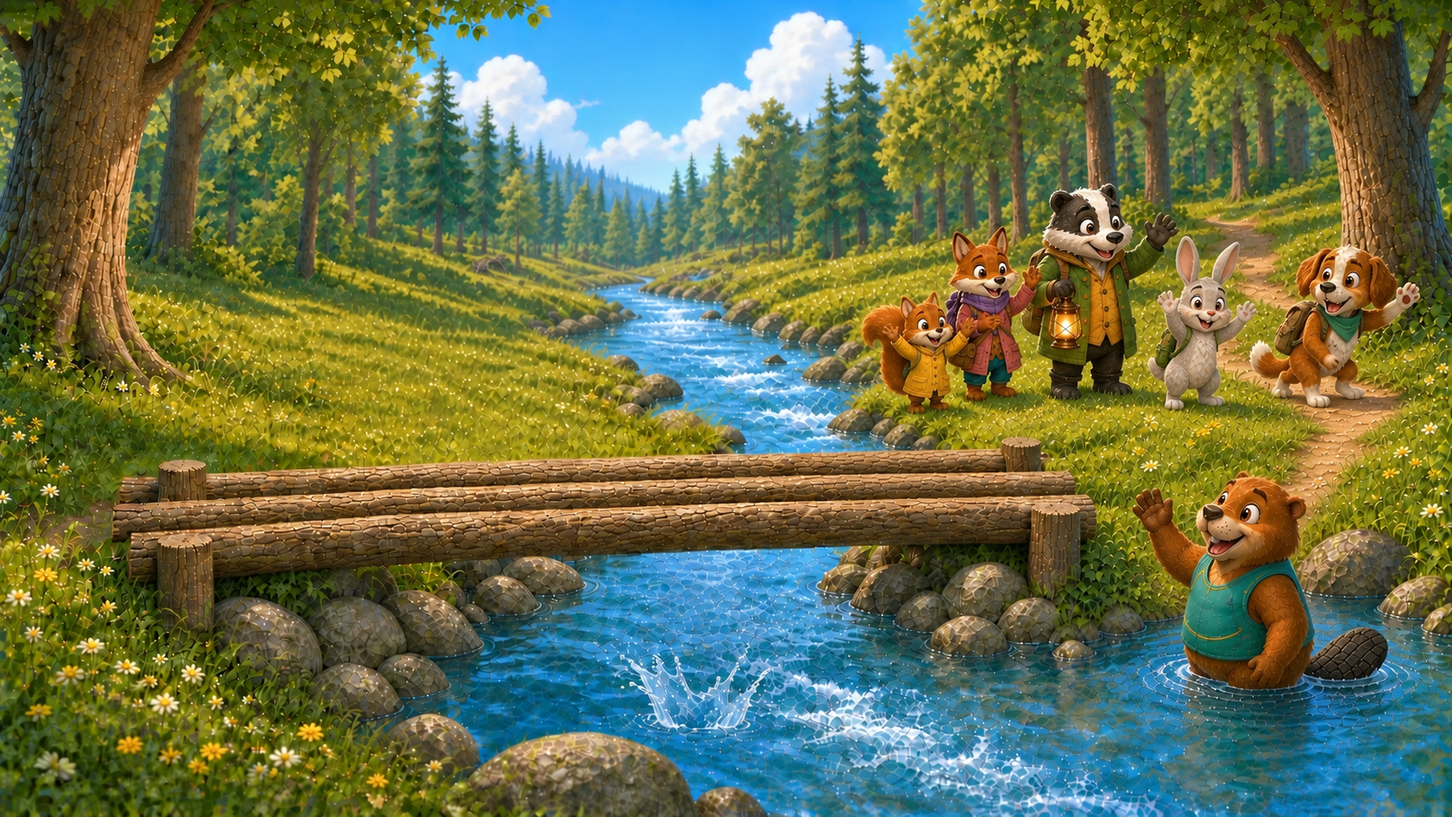
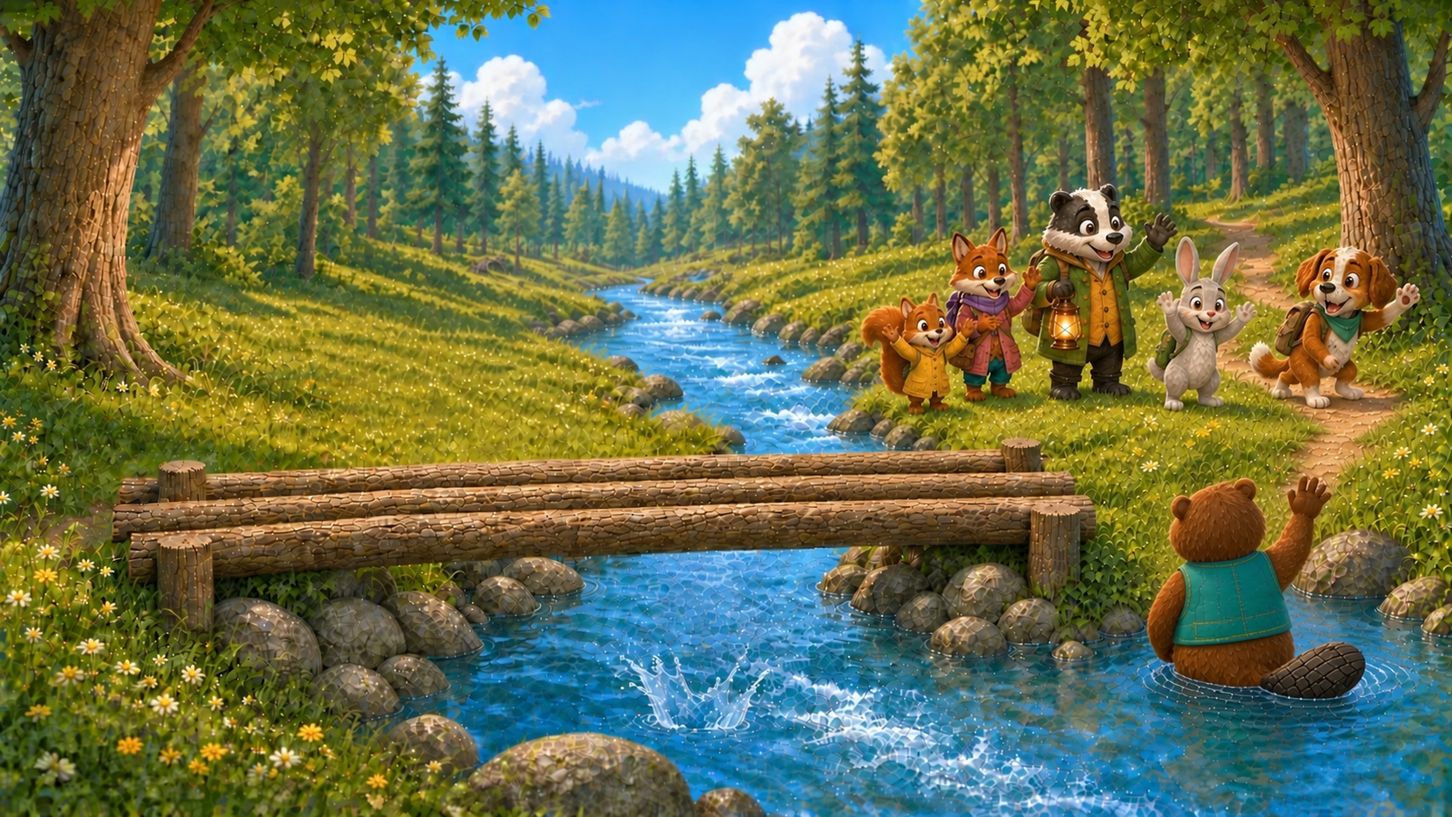
Fix Scene 5 three-log bridge and Logan farewell direction

diff --git a/MatysekANJ/web_mmtx/scene05_log_bridge/index.html b/MatysekANJ/web_mmtx/scene05_log_bridge/index.html
@@ -6,16 +6,16 @@
     <meta name="theme-color" content="#27483c">
     <title>Scene 5 — The Log Bridge</title>
     <link rel="preload" href="scene05_log_bridge_supports_smooth_q90.webp" as="image" type="image/webp" fetchpriority="high">
-    <link rel="preload" href="scene05_log_bridge_complete_smooth_q90.webp" as="image" type="image/webp">
+    <link rel="preload" href="scene05_log_bridge_complete_smooth_q90.webp?v=20260912artfix1" as="image" type="image/webp">
     <link rel="preload" href="scene05_benji_across_smooth_q90.webp" as="image" type="image/webp">
     <link rel="preload" href="scene05_benji_sunny_across_smooth_q90.webp" as="image" type="image/webp">
     <link rel="preload" href="scene05_fiona_across_smooth_q90.webp" as="image" type="image/webp">
     <link rel="preload" href="scene05_bruno_bunny_crossing_smooth_q90.webp" as="image" type="image/webp">
     <link rel="preload" href="scene05_lamp_falling_smooth_q90.webp" as="image" type="image/webp">
     <link rel="preload" href="scene05_lamp_rescued_smooth_q90.webp" as="image" type="image/webp">
-    <link rel="preload" href="scene05_friends_farewell_smooth_q90.webp" as="image" type="image/webp">
-    <link rel="stylesheet" href="styles.css?v=20260912farewell1">
-    <link rel="stylesheet" href="interaction.css?v=20260912farewell1">
+    <link rel="preload" href="scene05_friends_farewell_smooth_q90.webp?v=20260912artfix1" as="image" type="image/webp">
+    <link rel="stylesheet" href="styles.css?v=20260912artfix1">
+    <link rel="stylesheet" href="interaction.css?v=20260912artfix1">
   </head>
   <body>
     <main class="app-shell">
@@ -26,7 +26,7 @@
             <img class="scene-image" id="sceneImage" src="scene05_log_bridge_supports_smooth_q90.webp" width="1672" height="941" alt="Pět kamarádů a bobr Logan stojí u potoka, kde zůstaly základy starého mostu" fetchpriority="high" draggable="false">
           </picture>
 
-          <img class="scene-image final-scene" id="finalScene" src="scene05_log_bridge_complete_smooth_q90.webp" width="1672" height="941" alt="Hotový most ze tří bobrem ohlodaných kmenů" draggable="false">
+          <img class="scene-image final-scene" id="finalScene" src="scene05_log_bridge_complete_smooth_q90.webp?v=20260912artfix1" width="1672" height="941" alt="Hotový most ze tří bobrem ohlodaných kmenů" draggable="false">
           <img class="scene-image story-state" id="benjiAcrossScene" src="scene05_benji_across_smooth_q90.webp" width="1672" height="941" alt="Benji bezpečně stojí na pravém břehu za hotovým mostem" draggable="false">
           <img class="scene-image story-state" id="sunnyAcrossScene" src="scene05_benji_sunny_across_smooth_q90.webp" width="1672" height="941" alt="Benji a Sunny jsou na pravém břehu a Bunny se vlevo bojí" draggable="false">
           <img class="scene-image story-state" id="fionaAcrossScene" src="scene05_fiona_across_smooth_q90.webp" width="1672" height="941" alt="Fiona bezpečně stojí s Benjim a Sunny na pravém břehu" draggable="false">
@@ -34,7 +34,7 @@
           <img class="scene-image story-state" id="lampFallingScene" src="scene05_lamp_falling_smooth_q90.webp" width="1672" height="941" alt="Brunovi při přecházení padá svítící lampa do potoka" draggable="false">
           <img class="scene-image story-state" id="lampRescuedScene" src="scene05_lamp_rescued_smooth_q90.webp" width="1672" height="941" alt="Logan podává zachráněnou lampu Brunovi a všichni jsou v bezpečí" draggable="false">
 
-          <img class="scene-image story-state" id="friendsFarewellScene" src="scene05_friends_farewell_smooth_q90.webp" width="1672" height="941" alt="Všech pět kamarádů je na druhém břehu, mávají Loganovi a chystají se pokračovat k jezeru; Bruno drží zachráněnou lampu" draggable="false">
+          <img class="scene-image story-state" id="friendsFarewellScene" src="scene05_friends_farewell_smooth_q90.webp?v=20260912artfix1" width="1672" height="941" alt="Všech pět kamarádů je na druhém břehu; Logan je vidět zezadu a mává jim na rozloučenou, Bruno drží zachráněnou lampu" draggable="false">
 
           <div class="scene-hud">
             <a class="ui-button back-button" href="../scene04_harry_guard_prototype/index.html" aria-label="Zpět ke scéně s Harrym"><span aria-hidden="true">↩</span></a>
@@ -90,7 +90,7 @@
       </section>
     </main>
 
-    <script src="audio_manifest.js?v=20260912farewell1"></script>
-    <script src="script.js?v=20260912farewell1"></script>
+    <script src="audio_manifest.js?v=20260912artfix1"></script>
+    <script src="script.js?v=20260912artfix1"></script>
   </body>
 </html>

diff --git a/docs/scene05_log_bridge/index.html b/docs/scene05_log_bridge/index.html
@@ -6,16 +6,16 @@
     <meta name="theme-color" content="#27483c">
     <title>Scene 5 — The Log Bridge</title>
     <link rel="preload" href="scene05_log_bridge_supports_smooth_q90.webp" as="image" type="image/webp" fetchpriority="high">
-    <link rel="preload" href="scene05_log_bridge_complete_smooth_q90.webp" as="image" type="image/webp">
+    <link rel="preload" href="scene05_log_bridge_complete_smooth_q90.webp?v=20260912artfix1" as="image" type="image/webp">
     <link rel="preload" href="scene05_benji_across_smooth_q90.webp" as="image" type="image/webp">
     <link rel="preload" href="scene05_benji_sunny_across_smooth_q90.webp" as="image" type="image/webp">
     <link rel="preload" href="scene05_fiona_across_smooth_q90.webp" as="image" type="image/webp">
     <link rel="preload" href="scene05_bruno_bunny_crossing_smooth_q90.webp" as="image" type="image/webp">
     <link rel="preload" href="scene05_lamp_falling_smooth_q90.webp" as="image" type="image/webp">
     <link rel="preload" href="scene05_lamp_rescued_smooth_q90.webp" as="image" type="image/webp">
-    <link rel="preload" href="scene05_friends_farewell_smooth_q90.webp" as="image" type="image/webp">
-    <link rel="stylesheet" href="styles.css?v=20260912farewell1">
-    <link rel="stylesheet" href="interaction.css?v=20260912farewell1">
+    <link rel="preload" href="scene05_friends_farewell_smooth_q90.webp?v=20260912artfix1" as="image" type="image/webp">
+    <link rel="stylesheet" href="styles.css?v=20260912artfix1">
+    <link rel="stylesheet" href="interaction.css?v=20260912artfix1">
   </head>
   <body>
     <main class="app-shell">
@@ -26,7 +26,7 @@
             <img class="scene-image" id="sceneImage" src="scene05_log_bridge_supports_smooth_q90.webp" width="1672" height="941" alt="Pět kamarádů a bobr Logan stojí u potoka, kde zůstaly základy starého mostu" fetchpriority="high" draggable="false">
           </picture>
 
-          <img class="scene-image final-scene" id="finalScene" src="scene05_log_bridge_complete_smooth_q90.webp" width="1672" height="941" alt="Hotový most ze tří bobrem ohlodaných kmenů" draggable="false">
+          <img class="scene-image final-scene" id="finalScene" src="scene05_log_bridge_complete_smooth_q90.webp?v=20260912artfix1" width="1672" height="941" alt="Hotový most ze tří bobrem ohlodaných kmenů" draggable="false">
           <img class="scene-image story-state" id="benjiAcrossScene" src="scene05_benji_across_smooth_q90.webp" width="1672" height="941" alt="Benji bezpečně stojí na pravém břehu za hotovým mostem" draggable="false">
           <img class="scene-image story-state" id="sunnyAcrossScene" src="scene05_benji_sunny_across_smooth_q90.webp" width="1672" height="941" alt="Benji a Sunny jsou na pravém břehu a Bunny se vlevo bojí" draggable="false">
           <img class="scene-image story-state" id="fionaAcrossScene" src="scene05_fiona_across_smooth_q90.webp" width="1672" height="941" alt="Fiona bezpečně stojí s Benjim a Sunny na pravém břehu" draggable="false">
@@ -34,7 +34,7 @@
           <img class="scene-image story-state" id="lampFallingScene" src="scene05_lamp_falling_smooth_q90.webp" width="1672" height="941" alt="Brunovi při přecházení padá svítící lampa do potoka" draggable="false">
           <img class="scene-image story-state" id="lampRescuedScene" src="scene05_lamp_rescued_smooth_q90.webp" width="1672" height="941" alt="Logan podává zachráněnou lampu Brunovi a všichni jsou v bezpečí" draggable="false">
 
-          <img class="scene-image story-state" id="friendsFarewellScene" src="scene05_friends_farewell_smooth_q90.webp" width="1672" height="941" alt="Všech pět kamarádů je na druhém břehu, mávají Loganovi a chystají se pokračovat k jezeru; Bruno drží zachráněnou lampu" draggable="false">
+          <img class="scene-image story-state" id="friendsFarewellScene" src="scene05_friends_farewell_smooth_q90.webp?v=20260912artfix1" width="1672" height="941" alt="Všech pět kamarádů je na druhém břehu; Logan je vidět zezadu a mává jim na rozloučenou, Bruno drží zachráněnou lampu" draggable="false">
 
           <div class="scene-hud">
             <a class="ui-button back-button" href="../scene04_harry_guard_prototype/index.html" aria-label="Zpět ke scéně s Harrym"><span aria-hidden="true">↩</span></a>
@@ -90,7 +90,7 @@
       </section>
     </main>
 
-    <script src="audio_manifest.js?v=20260912farewell1"></script>
-    <script src="script.js?v=20260912farewell1"></script>
+    <script src="audio_manifest.js?v=20260912artfix1"></script>
+    <script src="script.js?v=20260912artfix1"></script>
   </body>
 </html>

diff --git a/Samantha_Agent/tests/test_mmtx_scene05_first_interaction.py b/Samantha_Agent/tests/test_mmtx_scene05_first_interaction.py
@@ -43,7 +43,7 @@ class MmtxScene05FirstInteractionTests(unittest.TestCase):
         self.assertIn('srcset="scene05_log_bridge_supports_smooth_q90.webp"', html)
         self.assertIn('src="scene05_log_bridge_supports_smooth_q90.webp"', html)
         self.assertIn('id="finalScene"', html)
-        self.assertIn('src="scene05_log_bridge_complete_smooth_q90.webp"', html)
+        self.assertIn('src="scene05_log_bridge_complete_smooth_q90.webp?v=20260912artfix1"', html)
         self.assertIn('src="scene05_benji_across_smooth_q90.webp"', html)
         self.assertIn('src="scene05_benji_sunny_across_smooth_q90.webp"', html)
         self.assertIn('src="scene05_fiona_across_smooth_q90.webp"', html)

diff --git a/Samantha_Agent/tests/test_mmtx_scene05_webp_pilot.py b/Samantha_Agent/tests/test_mmtx_scene05_webp_pilot.py
@@ -69,7 +69,7 @@ class MmtxScene05WebpPilotTests(unittest.TestCase):
         )
         self.assertIn('href="scene05_log_bridge_supports_smooth_q90.webp"', page)
         self.assertIn('src="scene05_log_bridge_supports_smooth_q90.webp"', page)
-        self.assertIn('src="scene05_log_bridge_complete_smooth_q90.webp"', page)
+        self.assertIn('src="scene05_log_bridge_complete_smooth_q90.webp?v=20260912artfix1"', page)
         self.assertIn('data-scene-state="bridge-supports"', page)
         self.assertIn('width="1672"', page)
         self.assertIn('height="941"', page)

diff --git a/Samantha_Agent/memory/ACTIVE_PROJECTS.md b/Samantha_Agent/memory/ACTIVE_PROJECTS.md
@@ -11,7 +11,7 @@ Samostatný terminálový projekt bez pracovního proudu v Cockpitu:
 | Rodinný kalendář | 1 | active | Živý redigovaný read-only audit 2026-08-01 potvrdil `config_mode=enabled`, aktivní automatiku, připravený plánovač a nula blokujících stavů. Audit nic nezapsal, nečetl tajemství a nevolal transport; `partial` a `delivery_unknown` zůstávají fail-closed. | `projects/family_calendar.md` | `handoffs/workstreams/project-family-calendar.md`; `tvbcp/workstreams/project-family-calendar.md` | Bez nové aktivace nebo testovacího odeslání. První přirozený plánovaný výsledek sledovat pouze redigovaně; proměnlivý provozní stav vždy znovu ověřit živým read-only auditem. |
 | Commitove odpoledne / git cleanup | A1+ | archived | Akutni cast splnena: velka memory/RAG cleanup davka byla commitnuta a pushnuta jako `ef15589 Clean up Samantha memory handoffs and RAG search`; repo bylo po pushi ciste. Pravidlo do odvolani zustava: pri delsim `git status` nebo zmene projektu navrhnout tematicky commitovy uklid. | `infrastructure/git_checkpoint_protocol.md` | `handoffs/git_commit_cleanup_a1_2026_05_23.md` | Drzet cisty stul; dalsi commitovy uklid navrhnout az pri novych rozpracovanych zmenach, bez `git add .`. |
 | Rustova pravidla Samanthy / uklid handoffu | A1+ | archived | Prvni velka handoff compression davka hotova a pushnuta: Dokumenty, Lekarna, PictNew/VocabularyIT, Tomik/FamilyVideoOrganizer, E-mail, Samantha/RAG a automaticke ukoly maji kanonicky stav a stare mezistavy jsou presunute do historickych sekci. Systemove reporty a infrastructure operating model jsou zalozene. | `technical/samantha_growth_rules.md`; `infrastructure/operating_model.md` | `handoffs/memory_cleanup_commit_afternoon_checkpoint_2026_05_23.md` | Pri dalsim rustu drzet pravidlo: novy opakovatelny status/audit nejdrive nabidnout jako systemovy report; velke cleanupy koncit malym commitem a pushem. |
-| MMTX | 1 | active | Scéna 5 je veřejně publikovaná: horní nadpis je odstraněný, dialog je výše a To the lake! zazní na novém obrazu loučení všech pěti přátel s Loganem na druhém břehu. Pages 34681649893 / commit 84c2809fb334, veřejná shoda 8/8. | `projects/mmtx_story_hotspot_app.md`; `projects/matysek_english_game_concept.md`; `technical/matysek_f5tts_voice_workflow.md` | `handoffs/workstreams/project-mmtx.md`; `tvbcp/workstreams/project-mmtx.md`; `handoffs/mmtx_scene03_journey_to_lake_publish_2026_07_01.md` | Běžný vizuální a zvukový retest na skutečném iPhonu. |
+| MMTX | 1 | active | Logan při závěrečném loučení stojí zády k divákovi a mává přímo přátelům. Obraz hotového mostu ukazuje tři samostatné klády hned po jejich usazení, ještě před Benjiho přechodem. Oprava ověřena lokálně. | `projects/mmtx_story_hotspot_app.md`; `projects/matysek_english_game_concept.md`; `technical/matysek_f5tts_voice_workflow.md` | `handoffs/workstreams/project-mmtx.md`; `tvbcp/workstreams/project-mmtx.md`; `handoffs/mmtx_scene03_journey_to_lake_publish_2026_07_01.md` | Dokončit p+n a zarovnat čisté profily pro večerní vývoj. |
 | Samantha external backup | 1 | active | Poslední úspěšná recovery záloha je snapshot `20260802_153855`. Stavový soubor je sdílený z kanonického projektu všemi profilovými workspaces. K 2026-08-07 je záloha starší než tři dny, proto je správně aktivní provozní upozornění. Starý incident s neviditelným USB diskem je historický a dnešní stav nedokládá. | `projects/samantha_external_backup.md` | `handoffs/external_backup_disk_usb_not_detected_2026_07_14.md` (historický); `handoffs/cockpit_robustness_smoke_backup_bridge_2026_06_09.md` | Připojit šifrovaný externí disk a spustit pravidelnou recovery zálohu; potom znovu ověřit `backup_status.py`. |
 | Janička Cockpit / používání a převzetí Samanthy | 1 | active | [PRIPOMENOUT] Janička je živý netechnický rozcestník k dokumentům, e-mailům, tisku, Lékárně, rodinným projektům, připomenutím a recovery. Stará light komunikace i nouzové otevírání plného Adama byly z Cockpitu odstraněny. Komunikace se vrátí až jako samostatný funkční Adam-R2; rozcestník do té doby neslibuje chat ani náhradní komunikační cestu. | `projects/janicka_cockpit_takeover.md`; `projects/janicka_cockpit_kucharka.md` | `handoffs/janicka_full_adam_cockpit_recovery_ios_card_2026_07_09.md`; `handoffs/janicka_cockpit_takeover_project_start_2026_06_06.md`; `handoffs/janicka_adam_text_bridge_functional_checkpoint_2026_06_07.md`; `handoffs/janicka_light_samantha_bridge_checkpoint_2026_07_03.md`; `handoffs/janicka_cockpit_family_projects_modal_2026_06_26.md` | Běžné nekomunikační vstupy Janičky ověřovat podle potřeby. Komunikační funkci už nerozvíjet v tomto projektu; navázat až samostatným projektem R2-Adam. |
 | R2-Adam / Janička | 2 | active | R2-Adam má vlastní trvalý chat, soukromý kontext, TXT prostor, dokumentovou lištu a čtečku. E2 živě ověřilo úplný tok e-mail -> vault -> create-only TXT. E3 potvrdilo ruční revizi a backendovou dostupnost PDF; nasazená oprava odstraňuje diagnostickou obálku z lidského TXT bez změny staršího souboru. Smoke prošel 5/5. | `projects/janicka_r2_adam.md` | `handoffs/workstreams/project-r2-adam-janicka.md`; `tvbcp/workstreams/project-r2-adam-janicka.md` | Obnovit Archiv e-mailu a R2 čtečku a ručně ověřit otevření PDF i čistý začátek TXT. |

diff --git a/Samantha_Agent/memory/reports/mmtx_scene05_artfix_2026_09_12.md b/Samantha_Agent/memory/reports/mmtx_scene05_artfix_2026_09_12.md
@@ -1,0 +1,20 @@
+# Scéna 5 – tři klády a Loganovo loučení, 2026-09-12
+
+Opraveny jsou dva existující obrazy pomocí vestavěného ImageGen. Výměnu zadal Míla; předchozí verze jsou zachované v historii Gitu. Obě aplikací používané kopie jsou byte-identické. Změna verze URL `20260912artfix1` brání použití starých obrázků z cache.
+
+Výstupy v `docs/scene05_log_bridge/` a `MatysekANJ/web_mmtx/scene05_log_bridge/`:
+
+- `scene05_friends_farewell_smooth_q90.webp` (1672 × 941, 441 488 B), zdroj `assets/scene05_friends_farewell_smooth_source.png`.
+- `scene05_log_bridge_complete_smooth_q90.webp` (1672 × 941, 412 990 B), zdroj `assets/scene05_log_bridge_complete_smooth_source.png`.
+
+Ověřeno v prohlížeči: po třetím klepnutí, ještě před Benjiho přechodem, jsou na mostě tři samostatné klády. Závěrečný Logan je vidět zezadu a mává přátelům. Celá scéna prošla 36 kroky, Repeat EN/EN+CZ, slovníkem a pěti velikostmi okna. Automatický průchod simuloval konce audia, nikoli fyzický poslech.
+
+Finální zadání generátoru (vestavěný režim):
+
+## Logan
+
+Use case: precise-object-edit. Image 1 is the EDIT TARGET, an existing children's story illustration. Change ONLY Logan the beaver in the lower-right foreground. Rotate his whole body and head so he is seen FROM BEHIND by the viewer, his teal vest BACK and the back of his head visible, facing UP and slightly RIGHT toward the five friends standing on the right grassy bank above him. Show his raised paw waving goodbye directly to these friends. His gaze must clearly point toward the group, never toward the viewer or the empty left bank. His broad flat beaver tail remains visible behind him in the foreground water. Keep his position and size roughly the same. Keep all five friends, their exact identities, poses, faces, clothing, backpacks and Bruno's lantern unchanged. Keep the bridge, all three logs, trees, sky, stream, grassy banks, lighting, camera angle, composition and smooth 3D illustrated style unchanged. Wide landscape 1672x941. No text, UI, watermarks, additional characters, or other changes. The final image must unmistakably show the BACK of the beaver while he waves to his friends.
+
+## Tři klády
+
+Use case: precise-object-edit. Image 1 is the EDIT TARGET: the completed bridge BEFORE the friends start crossing, all five friends remain on the LEFT grassy bank. Image 2 is a SUPPORTING REFERENCE ONLY for the bridge structure with THREE logs, not for character placement. Edit ONLY the horizontal bridge in Image 1 to visibly contain EXACTLY THREE separate large long tree-trunk logs laid SIDE BY SIDE spanning the stream from the left bank to the right bank, matching the three-log construction in reference Image 2. All three logs must be clearly countable as three parallel rounded trunks: one at the back, one in the middle, one at the front, with thin visible dark gaps/edges separating them across their length. They form the flat walking deck, not a vertical stack or railing. Keep the bank landing points and the four short upright support stumps. Widen the deck slightly toward the foreground if needed to show the third log clearly. Preserve Image 1's ALL FIVE friends on the LEFT bank in their exact positions (Benji puppy, Bunny rabbit, Bruno badger holding glowing lantern, Fiona fox, Sunny squirrel) and Logan the beaver in teal in the lower right water. DO NOT move Benji across: he has not crossed yet. Preserve the camera, all characters, background, trees, water, lighting, wide 1672x941 composition and smooth 3D storybook style of Image 1. No text, UI, arrows, labels, watermarks, extra characters or other changes. The bridge must unmistakably show THREE complete long logs immediately after being built.

diff --git a/Samantha_Agent/memory/handoffs/workstreams/project-mmtx.md b/Samantha_Agent/memory/handoffs/workstreams/project-mmtx.md
@@ -1,12 +1,11 @@
 <!-- SAMANTHA_CURRENT_STATUS_START -->
 ## Aktuální stav
 
-- Aktualizováno: 2026-09-12 09:50 CEST
-- Hotovo: Scéna 5 je veřejně publikovaná: horní nadpis je odstraněný, dialog je výše a To the lake! zazní na novém obrazu loučení všech pěti přátel s Loganem na druhém břehu.
-- Produkce: commit `84c2809fb334`, Pages run `34681649893`, deployment `6407386976`, HTTP 200 a byte-shoda osmi veřejných souborů.
-- Ověření: 63 cílených MMTX testů, 1 554 testů plné brány, 104 pevných stop, celý browserový průchod a 5 velikostí obrazovky bez kolize dialogu s tlačítky.
-- Další krok: Mílův běžný poslech a vizuální kontrola na skutečném iPhonu; další vývoj jen podle konkrétní připomínky.
-- Riziko / mez ověření: automatický průchod simuloval konce audia; veřejné MP3 jsou ověřené obsahem, fyzický poslech na iPhonu proveden nebyl.
+- Aktualizováno: 2026-09-12 10:17 CEST
+- Hotovo lokálně: Logan při závěrečném loučení stojí zády k divákovi a mává přímo přátelům. Obraz hotového mostu ukazuje tři samostatné klády hned po jejich usazení, ještě před Benjiho přechodem.
+- Ověření: 63/63 MMTX testů, 104 pevných stop, rychlá brána a celý browserový průchod včetně obrazu po třetí kládě a závěru.
+- Další krok: autorizované p+n, veřejné ověření a zarovnání čistých pracovních profilů pro večerní vývoj.
+- Riziko: publikace této obrazové opravy zatím není doložená; fyzický poslech na iPhonu nebyl součástí automatického testu.
 <!-- SAMANTHA_CURRENT_STATUS_END -->
 
 # Handoff pracovního proudu: MMTX
@@ -549,3 +548,25 @@ Technický důkaz:
 - Browser: 36 kroků, finální obraz před poslední větou, Repeat EN/EN+CZ, slovník 16 položek, pět rozměrů (1440×1000 až 390×844), bez JS výjimek a kolize dialogu s tlačítky.
 - Obraz: `assets/scene05_friends_farewell_smooth_source.png`; produkční `scene05_friends_farewell_smooth_q90.webp`, 1672×941, 504 810 B, obě kopie shodné. Zadání generátoru: stejné postavy a hladký 3D styl, všech pět přátel na pravém břehu mává Loganovi, Bruno drží zachráněnou lampu, prázdný most a levý břeh, bez textu.
 - Mez ověření: browserový test simuloval události konce audia; fyzický poslech na iPhonu zbývá pro uživatelský retest.
+
+### 2026-09-12 10:17 CEST – Oprava Loganova loučení a počtu klád
+
+Hotovo:
+- Logan při závěrečném loučení stojí zády k divákovi a mává přímo přátelům. Obraz hotového mostu ukazuje tři samostatné klády hned po jejich usazení, ještě před Benjiho přechodem.
+- Vyměněna dvě zdrojová PNG a dva WebP q90 v obou kopiích scény; URL verze `20260912artfix1` obnoví obrázky z cache.
+
+Rozhodnutí:
+- Chyba počtu klád byla v obrázku `finalScene`, který překryl správně usazené tři animované klády; oprava je proto pouze obrazová.
+- Míla autorizoval opravu, push a nasazení s čistým předáním do Human–Adam.
+
+Další krok:
+- Dokončit řízenou publikaci a dopsat její přesný veřejný důkaz.
+
+Navrhované další kroky:
+- Večer navázat na čistý `project-mmtx` podle Mílova dalšího zadání.
+
+Technický důkaz:
+- Cílené testy 63/63, audio 104/104, rychlá brána, byte-identické mirrory a browserový průchod 36 kroků prošly.
+- Screenshot po třetím polenu potvrzuje tři klády před Benjiho přechodem; závěr byl ověřen i v úzkém mobilním obrazu.
+- Výstupy a přesná zadání generátoru: `reports/mmtx_scene05_artfix_2026_09_12.md`.
+- Riziko při zápisu: p+n teprve následuje. Automatický test simuluje konce audia, nikoli fyzický poslech.

diff --git a/Samantha_Agent/memory/tvbcp/workstreams/project-mmtx.md b/Samantha_Agent/memory/tvbcp/workstreams/project-mmtx.md
@@ -1,12 +1,11 @@
 <!-- SAMANTHA_CURRENT_STATUS_START -->
 ## Aktuální stav
 
-- Aktualizováno: 2026-09-12 09:50 CEST
-- Hotovo: Scéna 5 je veřejně publikovaná: horní nadpis je odstraněný, dialog je výše a To the lake! zazní na novém obrazu loučení všech pěti přátel s Loganem na druhém břehu.
-- Produkce: commit `84c2809fb334`, Pages run `34681649893`, deployment `6407386976`, HTTP 200 a byte-shoda osmi veřejných souborů.
-- Ověření: 63 cílených MMTX testů, 1 554 testů plné brány, 104 pevných stop, celý browserový průchod a 5 velikostí obrazovky bez kolize dialogu s tlačítky.
-- Další krok: Mílův běžný poslech a vizuální kontrola na skutečném iPhonu; další vývoj jen podle konkrétní připomínky.
-- Riziko / mez ověření: automatický průchod simuloval konce audia; veřejné MP3 jsou ověřené obsahem, fyzický poslech na iPhonu proveden nebyl.
+- Aktualizováno: 2026-09-12 10:17 CEST
+- Hotovo lokálně: Logan při závěrečném loučení stojí zády k divákovi a mává přímo přátelům. Obraz hotového mostu ukazuje tři samostatné klády hned po jejich usazení, ještě před Benjiho přechodem.
+- Ověření: 63/63 MMTX testů, 104 pevných stop, rychlá brána a celý browserový průchod včetně obrazu po třetí kládě a závěru.
+- Další krok: autorizované p+n, veřejné ověření a zarovnání čistých pracovních profilů pro večerní vývoj.
+- Riziko: publikace této obrazové opravy zatím není doložená; fyzický poslech na iPhonu nebyl součástí automatického testu.
 <!-- SAMANTHA_CURRENT_STATUS_END -->
 
 # TVBCP: MMTX
@@ -1117,3 +1116,25 @@ Technický důkaz:
 - Browser: 36 kroků, finální obraz před poslední větou, Repeat EN/EN+CZ, slovník 16 položek, pět rozměrů (1440×1000 až 390×844), bez JS výjimek a kolize dialogu s tlačítky.
 - Obraz: `assets/scene05_friends_farewell_smooth_source.png`; produkční `scene05_friends_farewell_smooth_q90.webp`, 1672×941, 504 810 B, obě kopie shodné. Zadání generátoru: stejné postavy a hladký 3D styl, všech pět přátel na pravém břehu mává Loganovi, Bruno drží zachráněnou lampu, prázdný most a levý břeh, bez textu.
 - Mez ověření: browserový test simuloval události konce audia; fyzický poslech na iPhonu zbývá pro uživatelský retest.
+
+### 2026-09-12 10:17 CEST – Oprava Loganova loučení a počtu klád
+
+Hotovo:
+- Logan při závěrečném loučení stojí zády k divákovi a mává přímo přátelům. Obraz hotového mostu ukazuje tři samostatné klády hned po jejich usazení, ještě před Benjiho přechodem.
+- Vyměněna dvě zdrojová PNG a dva WebP q90 v obou kopiích scény; URL verze `20260912artfix1` obnoví obrázky z cache.
+
+Rozhodnutí:
+- Chyba počtu klád byla v obrázku `finalScene`, který překryl správně usazené tři animované klády; oprava je proto pouze obrazová.
+- Míla autorizoval opravu, push a nasazení s čistým předáním do Human–Adam.
+
+Další krok:
+- Dokončit řízenou publikaci a dopsat její přesný veřejný důkaz.
+
+Navrhované další kroky:
+- Večer navázat na čistý `project-mmtx` podle Mílova dalšího zadání.
+
+Technický důkaz:
+- Cílené testy 63/63, audio 104/104, rychlá brána, byte-identické mirrory a browserový průchod 36 kroků prošly.
+- Screenshot po třetím polenu potvrzuje tři klády před Benjiho přechodem; závěr byl ověřen i v úzkém mobilním obrazu.
+- Výstupy a přesná zadání generátoru: `reports/mmtx_scene05_artfix_2026_09_12.md`.
+- Riziko při zápisu: p+n teprve následuje. Automatický test simuluje konce audia, nikoli fyzický poslech.

diff --git a/Samantha_Agent/memory/MEMORY_INDEX.md b/Samantha_Agent/memory/MEMORY_INDEX.md
@@ -60,7 +60,7 @@ Tento soubor je rozcestnik dlouhodobe pameti pro Samantha Agent.
 - `projects/pohadkova_knizka_gpt_canva.md` - domácí dětská knížka z GPT pohádek, Canva sazba, stylová bible a workflow pro ilustrace.
 - `projects/vedecke_clanky.md` - širší znalostní databáze / knihovna článků: původně knihovna průlomových vědeckých článků v `data/vedecke_clanky/`, od 2026-06-10 Cockpit `Knihovna` a soukromý fulltextový archiv webových článků v `data/private/article_archive/`; podle korekce 2026-06-11 patří dohromady s Knowledge inboxem jako jeden směr osobní znalostní databáze; 2026-07-01 byla opravena archivace staršího českého HTML kódování a UI potvrzení uložení URL.
 - `projects/matysek_english_game_concept.md` - koncept anglické hry pro pětiletého Matýska bez čtení, se scénami, hlasem a příběhem.
-- `projects/mmtx_story_hotspot_app.md`; `handoffs/workstreams/project-mmtx.md`; `tvbcp/workstreams/project-mmtx.md` - MMTX 2026-09-12: nový závěrečný obraz loučení s Loganem, To the lake! až na něm, dialog nahoře bez názvu scény. Produkce ověřena: commit `84c2809fb334`, Pages `34681649893`, 8/8 veřejných souborů shodných; zbývá běžný poslech na skutečném iPhonu.
+- `projects/mmtx_story_hotspot_app.md`; `handoffs/workstreams/project-mmtx.md`; `tvbcp/workstreams/project-mmtx.md` - MMTX 2026-09-12: Logan v závěru otočený k přátelům, tři klády viditelné ihned po sestavení mostu. Oprava ověřena lokálně, p+n pokračuje v témže tahu; obrazový report `reports/mmtx_scene05_artfix_2026_09_12.md`.
 - `projects/multilo_stabilization_cleanup.md` - MultiLO je stabilizované, pro Janu existuje nový podepsaný balíček s Pythonem 3.12/Tk 8.6.13 a lokální aplikace je přidaná do katalogu Cockpitu; projekt je pozastavený do výměny aplikace na Janině Macu.
 - `projects/to_be_to_have.md` - aktivní anglická výuková aplikace ToBeToHave ze složky `ToBeTraining/`; Cockpit ji spouští jako allowlistovanou desktopovou aplikaci přes Python 3.12 a používá dvě stávající CSV pouze ke čtení.
 - `projects/linux_workstation.md` - aktivní konzultační projekt pro bezpečnou instalaci Linuxu na nový SATA SSD, postupnou konfiguraci a běžnou práci; původní HDD s Windows se při první instalaci zachovává jako návratová cesta.
